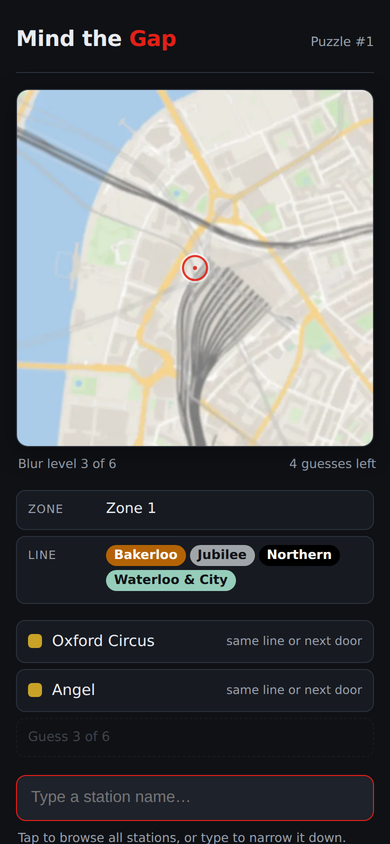
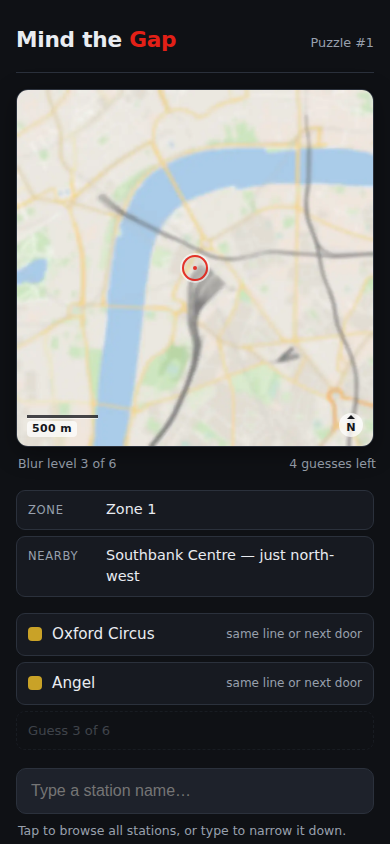
docs: v0.2.0 screenshots, changelog and release notes
Screenshots re-taken from puzzle #1 (Waterloo) at 390 px and 1000 px, with the
browser clock pinned to launch day: the 2.5 km map, scale bar and the new
Nearby hint. README attribution now names the Geofabrik extracts the maps and
landmarks are built from.

Claude-Session: https://claude.ai/code/session_0169bqPfCUqDWeZQ5rSQVVVe

diff --git a/README.md b/README.md
@@ -7,7 +7,7 @@ Think Wordle meets Worldle, for London.
 **▶ Play it: [zakixahmed.github.io/mind-the-gap](https://zakixahmed.github.io/mind-the-gap/)**
 
 <p>
-  <img src="docs/screenshots/midgame.png" alt="Mid-game: a partly sharpened map of Waterloo with zone and line hints revealed" width="300">
+  <img src="docs/screenshots/midgame.png" alt="Mid-game: a partly sharpened map of Waterloo with the zone and nearby-landmark hints revealed" width="300">
   <img src="docs/screenshots/win.png" alt="The win screen, showing the answer, a fact, the share button and guess statistics" width="300">
 </p>
 
@@ -136,7 +136,7 @@ Actions**, then push to `main`.
 
 - **Code:** [MIT](LICENSE).
 - **Station data:** [TfL Unified API](https://api.tfl.gov.uk) under the [TfL open data licence](https://tfl.gov.uk/info-for/open-data-users/) — *Powered by TfL Open Data. Contains OS data © Crown copyright and database rights 2016 and Geomni UK Map data © and database rights 2019.* Boroughs from [OpenStreetMap](https://www.openstreetmap.org/copyright) via Nominatim — *© OpenStreetMap contributors, ODbL 1.0.*
-- **Map imagery:** drawn from [OpenStreetMap](https://www.openstreetmap.org/copyright) data retrieved via the [Overpass API](https://overpass-api.de) — *© OpenStreetMap contributors*, ODbL. No third-party tiles are used or redistributed. This attribution also appears in the app footer.
+- **Map imagery:** drawn from [OpenStreetMap](https://www.openstreetmap.org/copyright) data, read from [Geofabrik](https://download.geofabrik.de) regional extracts (v0.1.0 used the [Overpass API](https://overpass-api.de)) — *© OpenStreetMap contributors*, ODbL. The nearby-landmark hints come from the same data. No third-party tiles are used or redistributed. This attribution also appears in the app footer.
 
 ## Roadmap
 
@@ -147,6 +147,7 @@ Actions**, then push to `main`.
 - [x] Phase 5 — daily logic, share grid, stats, countdown, 100-day schedule, practice mode
 - [ ] Phase 6 — polish and playtest: how-to-play modal, light mode, footer attribution
 - [x] Phase 7 — deployment, real screenshots, `v0.1.0`
+- [x] `v0.2.0` — the legibility pass after round-1 feedback: 2.5 km maps, a softer blur curve, landmark hints, tap-to-reveal hints (see [`docs/FEEDBACK.md`](docs/FEEDBACK.md))
 
 **Later, not in MVP:** archive mode for past puzzles, hard mode, distance-and-direction feedback on wrong guesses.
 

diff --git a/BRIEF.md b/BRIEF.md
@@ -86,12 +86,15 @@ _Updated at the end of every session. Newest first._
   the judgement calls. 271/272 have a hint (Chigwell has none). Browser-checked at 390 px.
 - DECISIONS (ADR-024), DEVLOG, CHANGELOG updated.
 
+- Screenshots re-taken (puzzle #1, Waterloo, at 390 px and 1000 px) and `v0.2.0` tagged.
+
 **Next — start here**
-1. Re-take `docs/screenshots/` — they still show 1 km maps and the old hint ladder.
-2. Tag `v0.2.0`; Zack pushes (`main` is ahead of origin) and the Pages workflow deploys.
-3. Second round of feedback from the same friends.
-4. Phase 6: how-to-play modal (first visit), light mode toggle, first-time walkthrough.
-5. Small fix: `fetch_osm_local.py` should fail loudly on a truncated .pbf, not only an HTML one.
+1. Zack pushes `main` and the `v0.2.0` tag; the Pages workflow deploys.
+2. Second round of feedback from the same friends; record it in `docs/FEEDBACK.md`.
+3. Phase 6: how-to-play modal (first visit), light mode toggle, first-time walkthrough.
+   Also: on desktop the "N guesses left" label sits under the map's right edge rather than
+   the column's — align it with the rest of the layout.
+4. Small fix: `fetch_osm_local.py` should fail loudly on a truncated .pbf, not only an HTML one.
 
 **Notes**
 - To rebuild landmarks: `python scripts/build_landmarks.py --extract data/pbf/*.osm.pbf`, then

diff --git a/CHANGELOG.md b/CHANGELOG.md
@@ -7,8 +7,10 @@ and this project adheres to [Semantic Versioning](https://semver.org/spec/v2.0.0
 
 ## [Unreleased]
 
-Version 0.2.0 in progress — the legibility pass, in response to the first round
-of player feedback. See `docs/FEEDBACK.md`.
+## [0.2.0] — 2026-09-27
+
+The legibility pass, in response to the first round of player feedback
+("too hard to guess"). See `docs/FEEDBACK.md`.
 
 ### Added
 - A "nearby landmark" hint: the nearest notable place, with a rough distance and
@@ -61,5 +63,6 @@ of player feedback. See `docs/FEEDBACK.md`.
 - Placeholder `public/index.html`.
 - Documentation skeleton: README, `docs/ARCHITECTURE.md`, `docs/DECISIONS.md`, `docs/DEVLOG.md`.
 
-[Unreleased]: https://github.com/zakixahmed/mind-the-gap/compare/v0.1.0...HEAD
+[Unreleased]: https://github.com/zakixahmed/mind-the-gap/compare/v0.2.0...HEAD
+[0.2.0]: https://github.com/zakixahmed/mind-the-gap/compare/v0.1.0...v0.2.0
 [0.1.0]: https://github.com/zakixahmed/mind-the-gap/releases/tag/v0.1.0

diff --git a/docs/DEVLOG.md b/docs/DEVLOG.md
@@ -17,8 +17,10 @@ One entry per working session, newest at the top. Each entry covers what was bui
 - Two scoring bugs surfaced in review: a small-area penalty meant for pocket parks was marking down the London Eye, and the answer-leak test ignored two-letter words, so "The O2" counted as having no distinctive name and was rejected.
 - The Mac sandbox kills background jobs when a call ends, so the full render ran in two chunks with `--only`.
 
+- Screenshots re-taken from puzzle #1 (Waterloo) with the browser clock pinned to launch day, so the README shows the 2.5 km map and the Nearby hint. CHANGELOG cut as 0.2.0; tagged `v0.2.0`.
+
 **Next**
-- Re-take `docs/screenshots/` (they still show 1 km maps and the old hint ladder), tag `v0.2.0`, push and deploy.
+- Push `main` and the tag; the Pages workflow deploys.
 - Second round of friend feedback.
 - Phase 6: how-to-play modal, light mode, first-time walkthrough.
 - Make `fetch_osm_local.py` fail loudly on a truncated .pbf.
